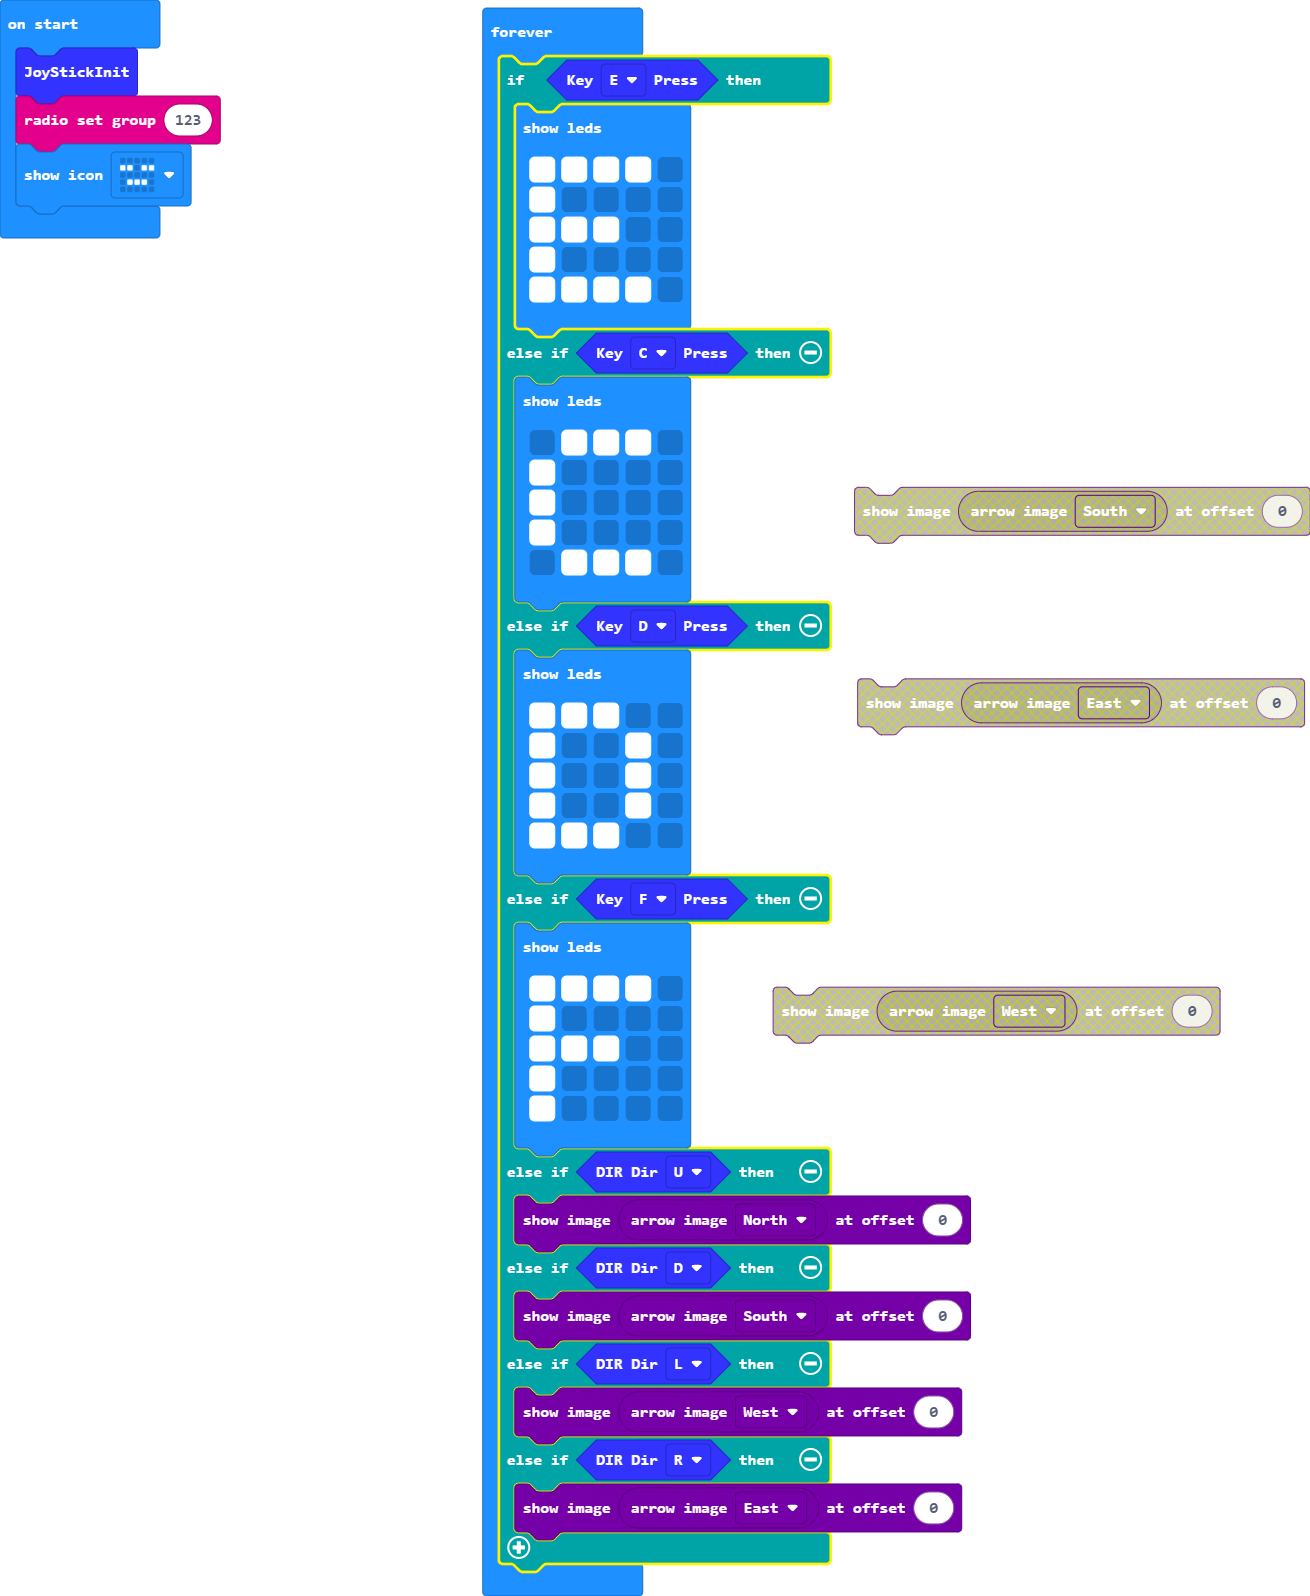
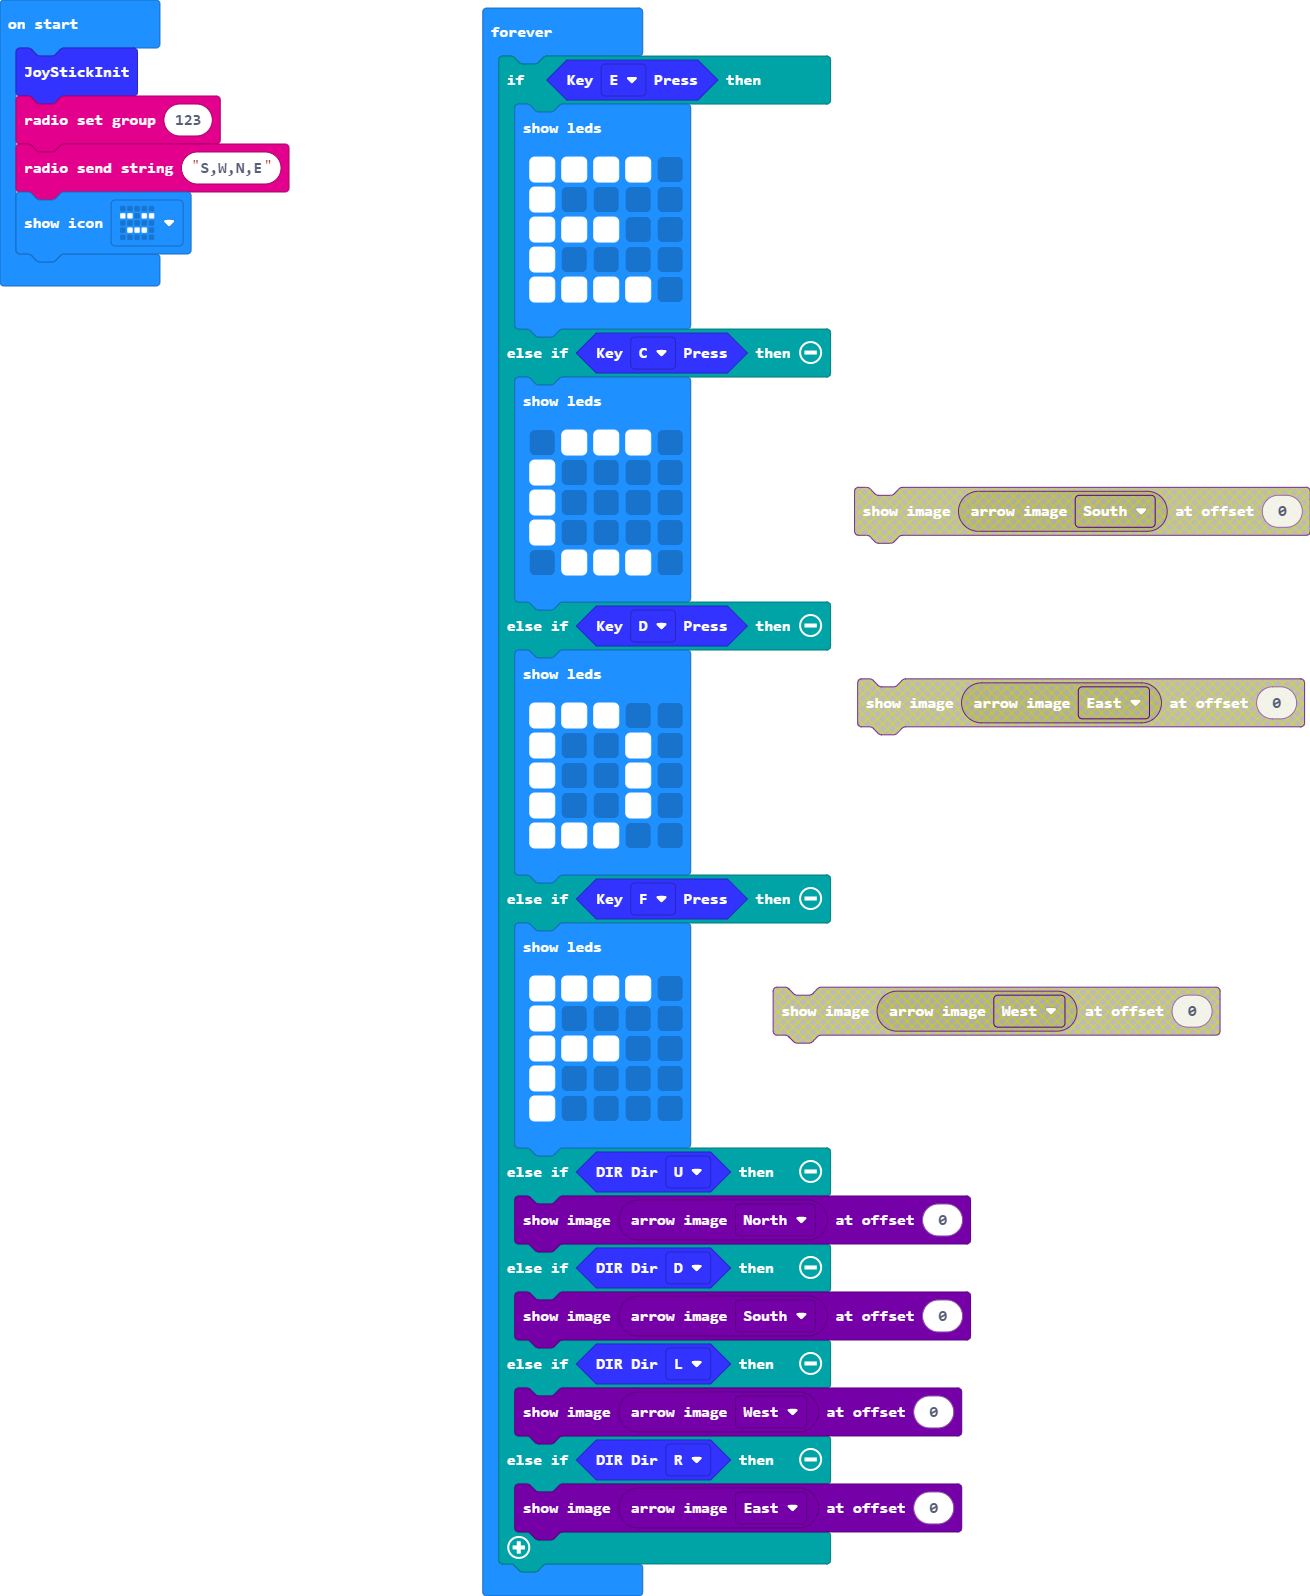
Update main.blocks, main.ts

diff --git a/main.ts b/main.ts
@@ -1,5 +1,6 @@
 WSJoyStick.JoyStickInit()
 radio.setGroup(123)
+radio.sendString("S,W,N,E")
 basic.showIcon(IconNames.Asleep)
 basic.forever(function () {
     if (WSJoyStick.Listen_Key(KEY.E)) {
